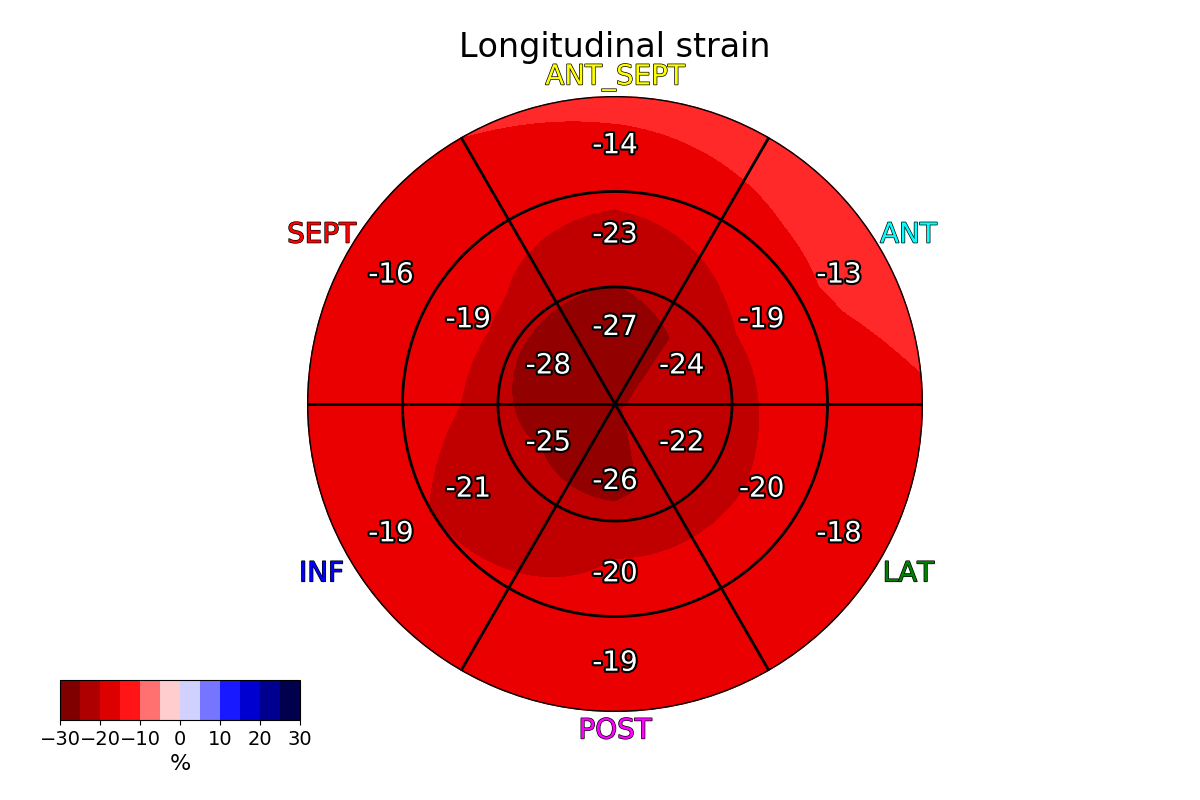
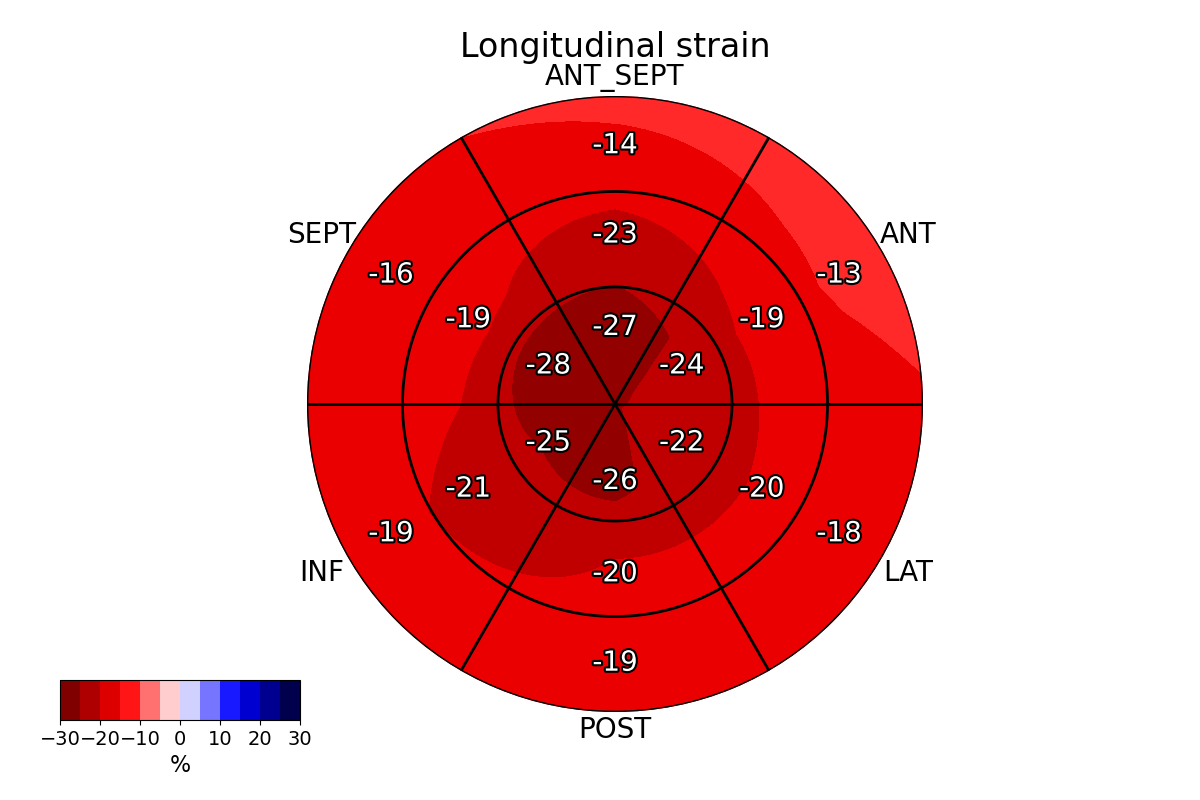
Added the wall thickness plot based on the Atlas export

diff --git a/ahasmoothplot.py b/ahasmoothplot.py
@@ -7,6 +7,7 @@ import matplotlib.pyplot as plt
 import matplotlib.patheffects as pef
 from matplotlib.colors import BoundaryNorm
 from matplotlib.ticker import MaxNLocator
+from wt_from_ex_files import *
 
 
 class SmoothAHAPlot:
@@ -89,10 +90,84 @@ class SmoothAHAPlot:
 
         return segmental_values
 
-    def _interpolate_65_to_17_values(self):
+    @staticmethod
+    def _rotate_downsampled(_downsampled):
+        rotate_ds = _downsampled[1:]
+        rotate_ds.append(_downsampled[0])
+        return np.array(rotate_ds)
 
-        pass
+    def _downsample_8_to_6(self, values):
 
+        def angular_value(val1, val2):
+            return (3*val1 + 5*val2) / 8
+
+        def vertical_value(val1, val2, val3):
+            return (val1 + 6*val2 + val3) / 8
+
+        downsampled = list()
+        downsampled.append(angular_value(*values[:2]))
+        downsampled.append(vertical_value(*values[1:4]))
+        downsampled.append(angular_value(values[4], values[3]))
+        downsampled.append(angular_value(*values[4:6]))
+        downsampled.append(vertical_value(*values[5:]))
+        downsampled.append(angular_value(values[0], values[7]))
+        return self._rotate_downsampled(downsampled)
+
+    def _downsample_8_to_4(self, values):
+
+        def average_value(val1, val2, val3):
+            return (val1 + 2*val2 + val3) / 4
+
+        downsampled = list()
+        downsampled.append(average_value(values[-1], values[0], values[1]))
+        downsampled.append(average_value(*values[1:4]))
+        downsampled.append(average_value(*values[3:6]))
+        downsampled.append(average_value(*values[5:]))
+        return self._rotate_downsampled(downsampled)
+
+    def _downsample_65_to_17_values(self):
+
+        apex = self.seg_values[0]
+        spiral_basal_to_apex = self.seg_values[:0:-1]
+
+        ds_circ = dict()
+        for _slice in range(5):
+            ds_circ['slice_'+str(_slice+1)] = self._downsample_8_to_6(spiral_basal_to_apex[8*_slice:8*(_slice+1)])
+        for _slice in range(5, 7):
+            ds_circ['slice_'+str(_slice+1)] = self._downsample_8_to_4(spiral_basal_to_apex[8*_slice:8*(_slice+1)])
+        for _slice in range(7, 8):
+            ds_circ['slice_' + str(_slice + 1)] = np.mean([spiral_basal_to_apex[8*_slice:8*(_slice+1)]])
+
+        basal = 0.4 * ds_circ['slice_1'] + 0.4 * ds_circ['slice_2'] + 0.2 * ds_circ['slice_3']
+        mid = 0.25 * ds_circ['slice_3'] + 0.5 * ds_circ['slice_4'] + 0.25 * ds_circ['slice_5']
+        apical = 0.5 * ds_circ['slice_6'] + 0.5 * ds_circ['slice_7']
+        print(ds_circ['slice_6'])
+        print(ds_circ['slice_7'])
+        print(ds_circ['slice_8'])
+        print(apex)
+        apex = np.mean((ds_circ['slice_8'], apex))
+
+        aha_17 = list()
+        aha_17.extend([*list(basal), *list(mid), *list(apical), apex])
+
+        return aha_17
+
+    def _downsample_65_to_18_values(self):
+
+        apex = self.seg_values[0]
+        spiral_basal_to_apex = self.seg_values[:0:-1]
+
+        ds_circ = dict()
+        for _slice in range(8):
+            ds_circ['slice_'+str(_slice+1)] = self._downsample_8_to_6(spiral_basal_to_apex[8*_slice:8*(_slice+1)])
+        basal = 0.4 * ds_circ['slice_1'] + 0.4 * ds_circ['slice_2'] + 0.2 * ds_circ['slice_3']
+        mid = 0.2 * ds_circ['slice_3'] + 0.4 * ds_circ['slice_4'] + 0.3 * ds_circ['slice_5'] + 0.1 * ds_circ['slice_6']
+        apical = 0.2 * ds_circ['slice_7'] + 0.4 * ds_circ['slice_8'] + 0.4 * apex
+
+        aha_18 = list()
+        aha_18.extend([*list(basal), *list(mid), *list(apical)])
+
+        return aha_18
 
     def _interpolate_17_aha_values(self, aha_values=None):
         """
@@ -231,15 +306,15 @@ class SmoothAHAPlot:
         full_map = np.flip(full_map, 0)
 
         print(full_map.shape)
-        y_0 = [0, 0.04, 0.12, 0.22, 0.34, 0.5, 0.66, 0.83, 1]
+        y_0 = [0, 0.1, 0.2, 0.3, 0.4, 0.55, 0.7, 0.85, 1]
 
         f = interp1d(y_0, full_map, axis=0)
         full_map_interp = f(np.linspace(0, 1, res_y))
 
         return full_map_interp
 
-    def bullseye_17_smooth(self, fig, ax, cmap='jet', norm=None, units='Units', title='Smooth 17 AHA plot',
-                           smooth_contour=False, echop=False):
+    def bullseye_17_smooth(self, fig, ax, cmap='jet', color_seg_names=False, norm=None, units='Units',
+                           title='Smooth 17 AHA plot', smooth_contour=False, echop=False):
         """
         Function to create the smooth representation of the AHA 17 segment plot
         :param fig: matplotlib.pyplot.figure
@@ -248,6 +323,8 @@ class SmoothAHAPlot:
             Axes of the figure, for 17 AHA and colorbar.
         :param cmap: ColorMap or None, optional
             Optional argument to set the desired colormap
+        :param color_seg_names: boolean, default - False
+            Whether or not to color the segment names with traditional echocardiography colors
         :param norm: tuple, BoundaryNorm or None
             Tuple (vmin, vmax) - normalize data into the [0.0, 1.0] range with minimum and maximum desired values.
         :param units: str
@@ -321,6 +398,7 @@ class SmoothAHAPlot:
             return -1
 
         r = np.linspace(0, 1, interp_data.shape[0])
+        float_values = False
         # ==============================================================================================================
 
         # -----Fill segments -------------------------------------------------------------------------------------------
@@ -337,34 +415,40 @@ class SmoothAHAPlot:
             ax.pcolormesh(theta0, r0, z, cmap=cmap, norm=norm)
 
         if len(self.seg_values) == 65:
-            self._interpolate_65_to_17_values()
+            self.seg_values = self._downsample_65_to_17_values()
+            float_values = True
 
         # Annotate
         for i in range(6):
             # Segments 1-6
             ax.text(np.deg2rad(i * 60) + np.deg2rad(seg_align_12), np.mean(r[73:]),  # position (circumferential, norm)
-                    int(self.seg_values[i]),  # value
+                    np.round(self.seg_values[i], 1) if float_values else int(self.seg_values[i]),  # values
                     fontsize=20, ha='center', va='center', color='w',  # font options
                     path_effects=[pef.Stroke(linewidth=3, foreground='k'), pef.Normal()])
             # Segments 7-12
-            ax.text(np.deg2rad(i * 60) + np.deg2rad(seg_align_12), np.mean(r[46:73]), int(self.seg_values[i+6]),
+            ax.text(np.deg2rad(i * 60) + np.deg2rad(seg_align_12), np.mean(r[46:73]),
+                    np.round(self.seg_values[i+6], 1) if float_values else int(self.seg_values[i+6]),  # values
                     fontsize=20, ha='center', va='center', color='w',
                     path_effects=[pef.Stroke(linewidth=3, foreground='k'), pef.Normal()])
             # Segment names
             ax.text(np.deg2rad(i * 60) + np.deg2rad(seg_align_12), r[-1] + seg_names_pos[i], seg_names[i],
-                    fontsize=20, ha='center', va='center', rotation=rot[i], weight='bold',
-                    color=self.COLORS[i], path_effects=[pef.Stroke(linewidth=1, foreground='k'), pef.Normal()])
+                    fontsize=20, ha='center', va='center', rotation=rot[i], weight='bold' if color_seg_names else None,
+                    color=self.COLORS[i] if color_seg_names else 'k',
+                    path_effects=[pef.Stroke(linewidth=1, foreground='k'), pef.Normal()]if color_seg_names else None)
         # Segments 13-16
         for i in range(4):
-            ax.text(np.deg2rad(i * 90) + np.deg2rad(seg_align_13_16[i]), np.mean(r[20:46]), int(self.seg_values[i + 12]),
+            ax.text(np.deg2rad(i * 90) + np.deg2rad(seg_align_13_16[i]), np.mean(r[20:46]),
+                    np.round(self.seg_values[i + 12], 1) if float_values else int(self.seg_values[i + 12]),  # values
                     fontsize=20, ha='center', va='center', color='w',
                     path_effects=[pef.Stroke(linewidth=3, foreground='k'), pef.Normal()])
         # Segment 17
-        ax.text(0, 0, int(self.seg_values[16]), fontsize=20, ha='center', va='center', color='w',
+        ax.text(0, 0,
+                np.round(self.seg_values[16], 1) if float_values else int(self.seg_values[16]),  # value
+                fontsize=20, ha='center', va='center', color='w',
                 path_effects=[pef.Stroke(linewidth=3, foreground='k'), pef.Normal()])
         # ==============================================================================================================
 
-        # -----Add plot featres-----------------------------------------------------------------------------------------
+        # -----Add plot featres-----------------------------------------v-----------------------------------------------
         # Create the axis for the colorbars
         bar = fig.add_axes([0.05, 0.1, 0.2, 0.05])
         cb1 = mpl.colorbar.ColorbarBase(bar, cmap=cmap, norm=norm, orientation='horizontal')
@@ -380,8 +464,8 @@ class SmoothAHAPlot:
 
         return fig
 
-    def bullseye_18_smooth(self, fig, ax, cmap='jet', norm=None, units='Units', title='Smooth 18 AHA plot',
-                           smooth_contour=False, echop=False):
+    def bullseye_18_smooth(self, fig, ax, cmap='jet', color_seg_names=False, norm=None, units='Units',
+                           title='Smooth 18 AHA plot', smooth_contour=False, echop=False):
         """
         Function to create the smooth representation of the AHA 18 segment plot
         :param fig: matplotlib.pyplot.figure
@@ -390,6 +474,8 @@ class SmoothAHAPlot:
             Axes of the figure, for 18 AHA and colorbar.
         :param cmap: ColorMap or None, optional
             Optional argument to set the desired colormap
+        :param color_seg_names: boolean, default - False
+            Whether or not to color the segment names with traditional echocardiography colors
         :param norm: tuple, BoundaryNorm or None
             Tuple (vmin, vmax) - normalize data into the [0.0, 1.0] range with minimum and maximum desired values.
         :param units: str
@@ -441,6 +527,27 @@ class SmoothAHAPlot:
             theta_i = np.deg2rad(i * 60)
             ax.plot([theta_i, theta_i], [0, 1], '-k', lw=linewidth)
 
+        # testing
+        # r = np.linspace(0.2, 1, 4)
+        # linewidth = 2
+        # # Create the radial bounds
+        # for i in range(r.shape[0]):
+        #     ax.plot(theta, np.repeat(r[i], theta.shape), '--r', lw=linewidth)
+        #
+        # # Create the bounds for the segments 1-12
+        # for i in range(6):
+        #     theta_i = np.deg2rad(i * 60)
+        #     ax.plot([theta_i, theta_i], [r[1], 1], '--y', lw=linewidth)
+        #
+        # # Create the bounds for the segments 13-16
+        # for i in range(4):
+        #     theta_i = np.deg2rad(i * 90 - 45)
+        #     if echop:
+        #         theta_i += np.pi / 4
+        #     ax.plot([theta_i, theta_i], [r[0], r[1]], '--g', lw=linewidth)
+        # plt.show()
+        # exit()
+        # END testing
         # ==============================================================================================================
 
         # -----Linear interpolation-------------------------------------------------------------------------------------
@@ -455,6 +562,7 @@ class SmoothAHAPlot:
             return -1
 
         r = np.linspace(0, 1, interp_data.shape[0])
+        float_values = False
         # ==============================================================================================================
 
         # -----Fill segments 1:18---------------------------------------------------------------------------------------
@@ -465,21 +573,29 @@ class SmoothAHAPlot:
         z = interp_data
         z = z.T
 
+        if len(self.seg_values) == 65:
+            self.seg_values = self._downsample_65_to_18_values()
+            float_values = True
+
         # Annotate
         for i in range(6):
-            ax.text(np.deg2rad(i * 60) + np.deg2rad(seg_align), 0.84, int(self.seg_values[i]), fontsize=20,
-                    ha='center', va='center', color='w',
+            ax.text(np.deg2rad(i * 60) + np.deg2rad(seg_align), 0.84,
+                    np.round(self.seg_values[i], 1) if float_values else int(self.seg_values[i]),
+                    fontsize=20, ha='center', va='center', color='w',
                     path_effects=[pef.Stroke(linewidth=3, foreground='k'), pef.Normal()])
-            ax.text(np.deg2rad(i * 60) + np.deg2rad(seg_align), 0.55, int(self.seg_values[i + 6]), fontsize=20,
-                    ha='center', va='center', color='w',
+            ax.text(np.deg2rad(i * 60) + np.deg2rad(seg_align), 0.55,
+                    np.round(self.seg_values[i+6], 1) if float_values else int(self.seg_values[i + 6]),
+                    fontsize=20, ha='center', va='center', color='w',
                     path_effects=[pef.Stroke(linewidth=3, foreground='k'), pef.Normal()])
-            ax.text(np.deg2rad(i * 60) + np.deg2rad(seg_align), 0.25, int(self.seg_values[i + 12]), fontsize=20,
-                    ha='center', va='center', color='w',
+            ax.text(np.deg2rad(i * 60) + np.deg2rad(seg_align), 0.25,
+                    np.round(self.seg_values[i+12], 1) if float_values else int(self.seg_values[i + 12]),
+                    fontsize=20, ha='center', va='center', color='w',
                     path_effects=[pef.Stroke(linewidth=3, foreground='k'), pef.Normal()])
             # Segment names
             ax.text(np.deg2rad(i * 60) + np.deg2rad(seg_align), r[-1] + seg_names_pos[i], seg_names[i],
                     fontsize=20, ha='center',  va='center', rotation=rot[i],
-                    color=self.COLORS[i], path_effects=[pef.Stroke(linewidth=1, foreground='k'), pef.Normal()])
+                    color=self.COLORS[i] if color_seg_names else 'k',
+                    path_effects=[pef.Stroke(linewidth=1, foreground='k'), pef.Normal()] if color_seg_names else None)
         # Colour
         if smooth_contour and (self.levels is not None):
             cf = ax.contourf(theta0, r0, z, cmap=cmap, levels=self.levels)
@@ -548,10 +664,8 @@ class SmoothAHAPlot:
 
     def plot_wall_thickness(self, filename='', data=None, echop=False):
 
-        # self.seg_values = self._get_segmental_values(data)
-
-        cmap = plt.get_cmap('seismic')
-        norm = (3, 10)
+        cmap = plt.get_cmap('RdYlBu_r')
+        norm = (4, 10)
         fig, ax = plt.subplots(figsize=(12, 8), nrows=1, ncols=1,
                                subplot_kw=dict(projection='polar'))
         if self.n_segments == 18:
@@ -561,3 +675,13 @@ class SmoothAHAPlot:
             fig = self.bullseye_17_smooth(fig=fig, ax=ax, cmap=cmap, norm=norm, title='Wall thickness',
                                           units='mm', smooth_contour=False, echop=echop)
         fig.savefig(os.path.join(self.output_path, filename))
+
+
+if __name__ == '__main__':
+    test_exnode = r'G:\Tephra\Processed\AtlasOutputLVLrv\Averages\All\ExFiles\MeanEigen1Scalen97.exnode'
+    wt = calc_wall_thickness(test_exnode)
+    plot_wt = SmoothAHAPlot(wt, r'G:\Tephra\Processed\AtlasOutputLVLrv\Averages\All\ExFiles', n_segments=17)
+    plot_wt.plot_wall_thickness('WT_test2.png')
+    plot_wt.seg_values = wt
+    plot_wt.n_segments = 18
+    plot_wt.plot_wall_thickness('WT_test18.png')

diff --git a/wt_from_ex_files.py b/wt_from_ex_files.py
@@ -4,6 +4,7 @@ import matplotlib.pyplot as plt
 import numpy as np
 from ahasmoothplot import SmoothAHAPlot
 
+
 def parse_exnode(exnode_file):
     """Extract node cartesian coordinates from a Mesh.EXNODE file and return Dict.
     Loads a mesh from an Mesh.EXNODE file, calculates the thicknesses and
@@ -127,7 +128,6 @@ def show_wall_thickness_plot(show_x, show_y, show_z, show_delay=False):
         else:
             _color = 'r'
 
-
         ax.plot3D(show_x[i], show_y[i], show_z[i], _color)
 
         if show_delay:
@@ -143,7 +143,7 @@ def show_wall_thickness_plot(show_x, show_y, show_z, show_delay=False):
 
 
 if __name__ == '__main__':
-    test_exnode = r'G:\Tephra\Processed\AtlasOutputLVLrv\Averages\All\ExFiles\MeanEigen1Scalen97.exnode'
+    test_exnode = r'G:\Tephra\Processed\AtlasOutputLVLrv\Averages\All\ExFiles\MeanEigen1Scale97.exnode'
     wt = calc_wall_thickness(test_exnode)
     plot_wt = SmoothAHAPlot(wt, r'G:\Tephra\Processed\AtlasOutputLVLrv\Averages\All\ExFiles', n_segments=17)
     plot_wt.plot_wall_thickness('WT_test2.png')
